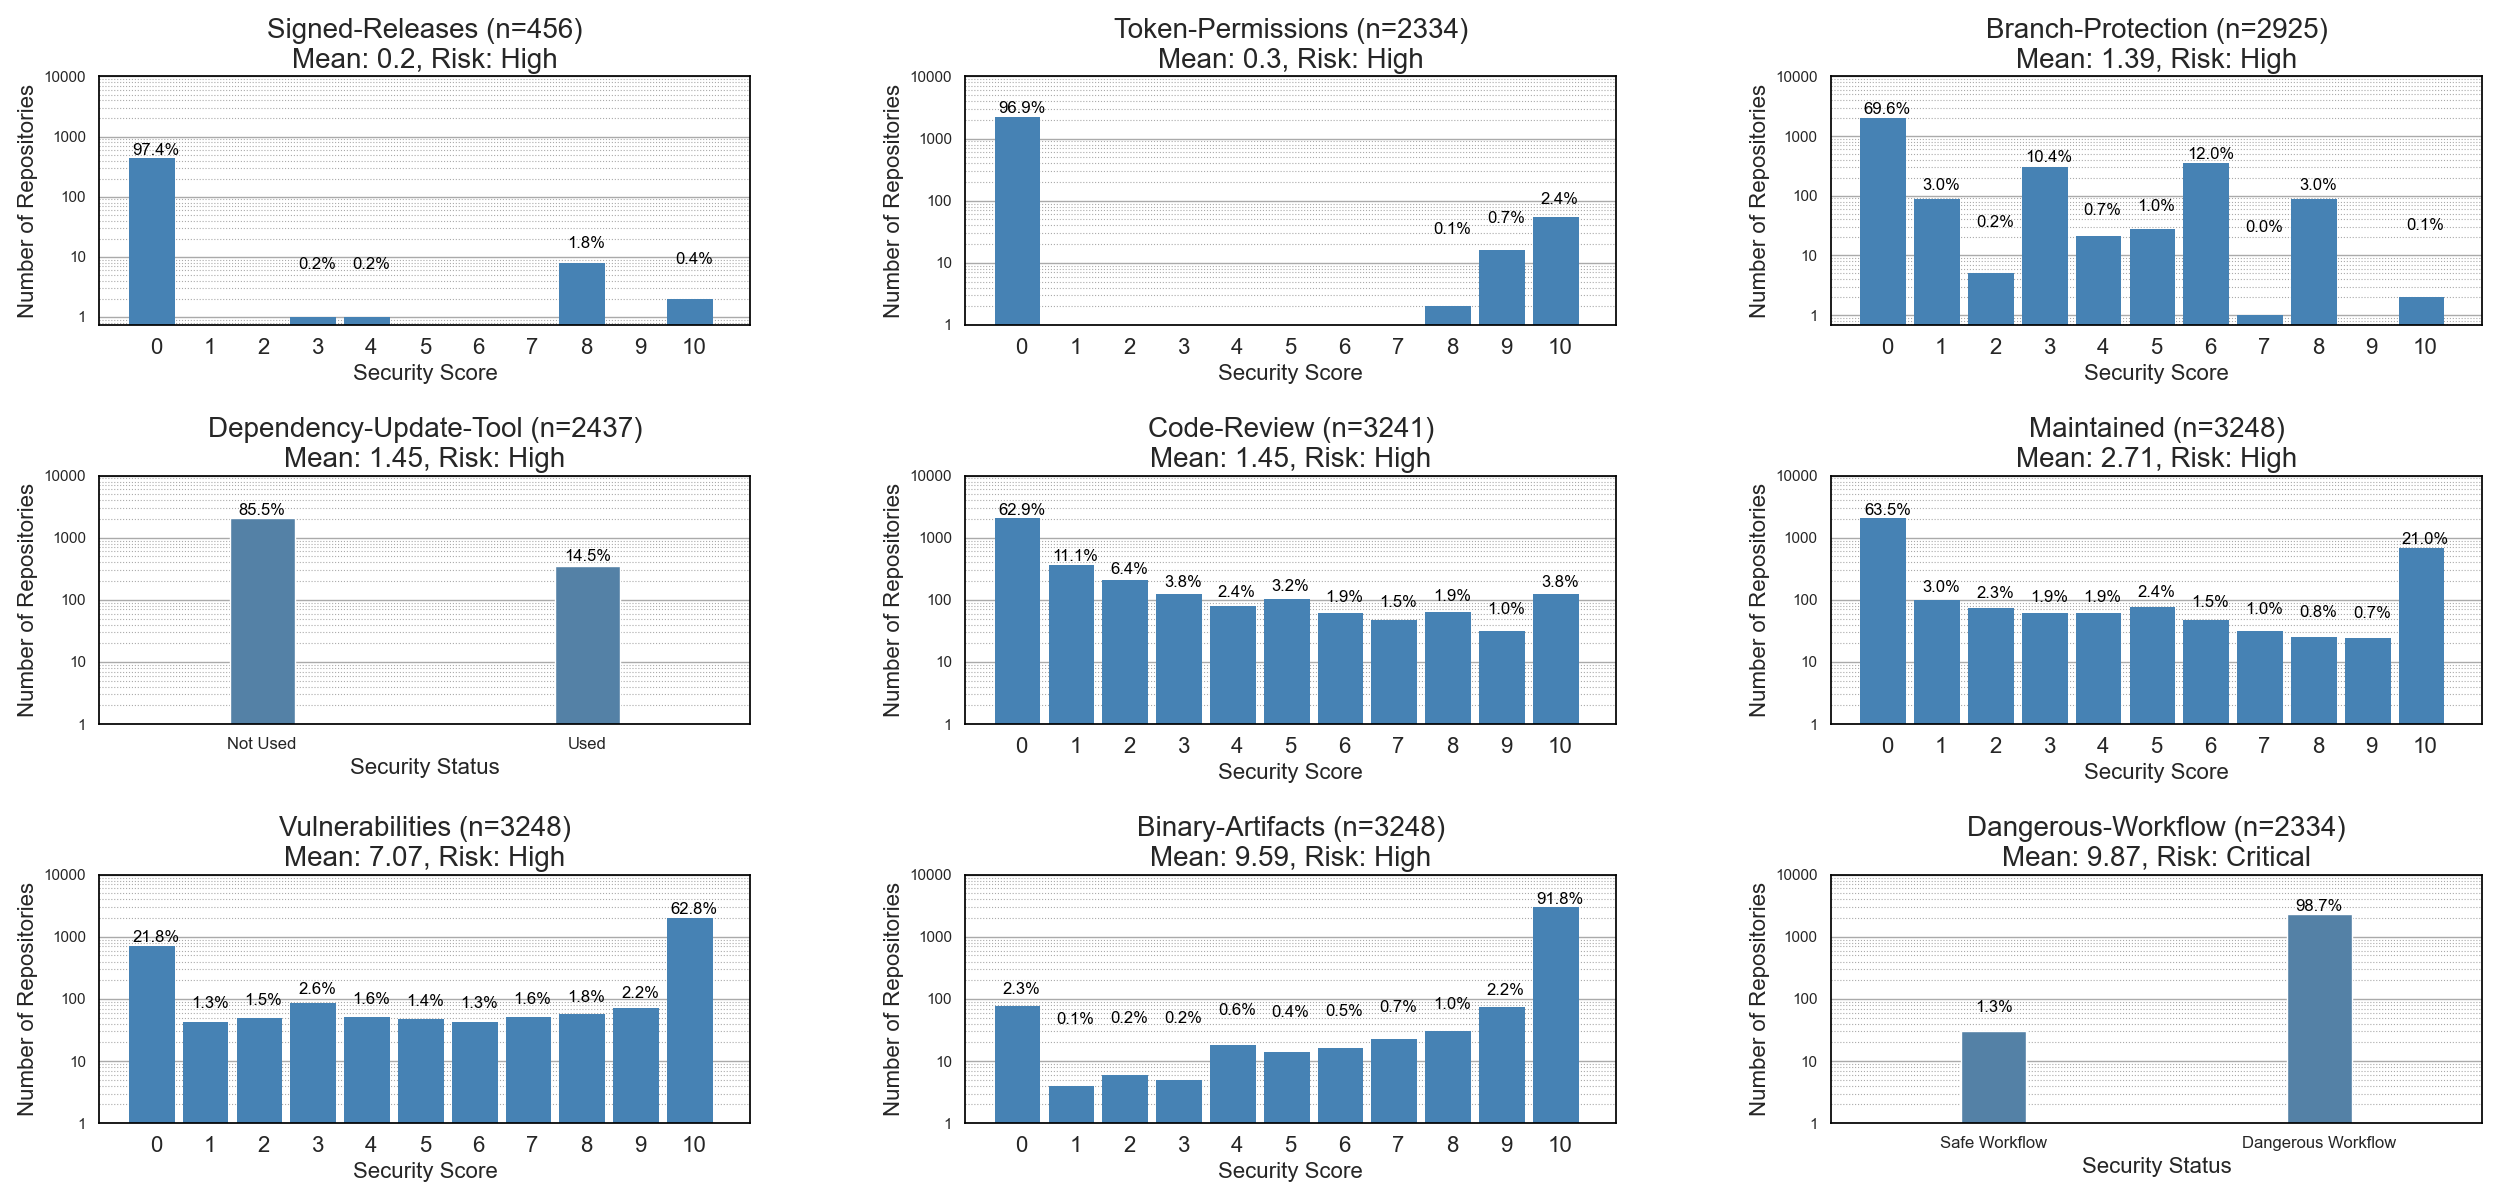
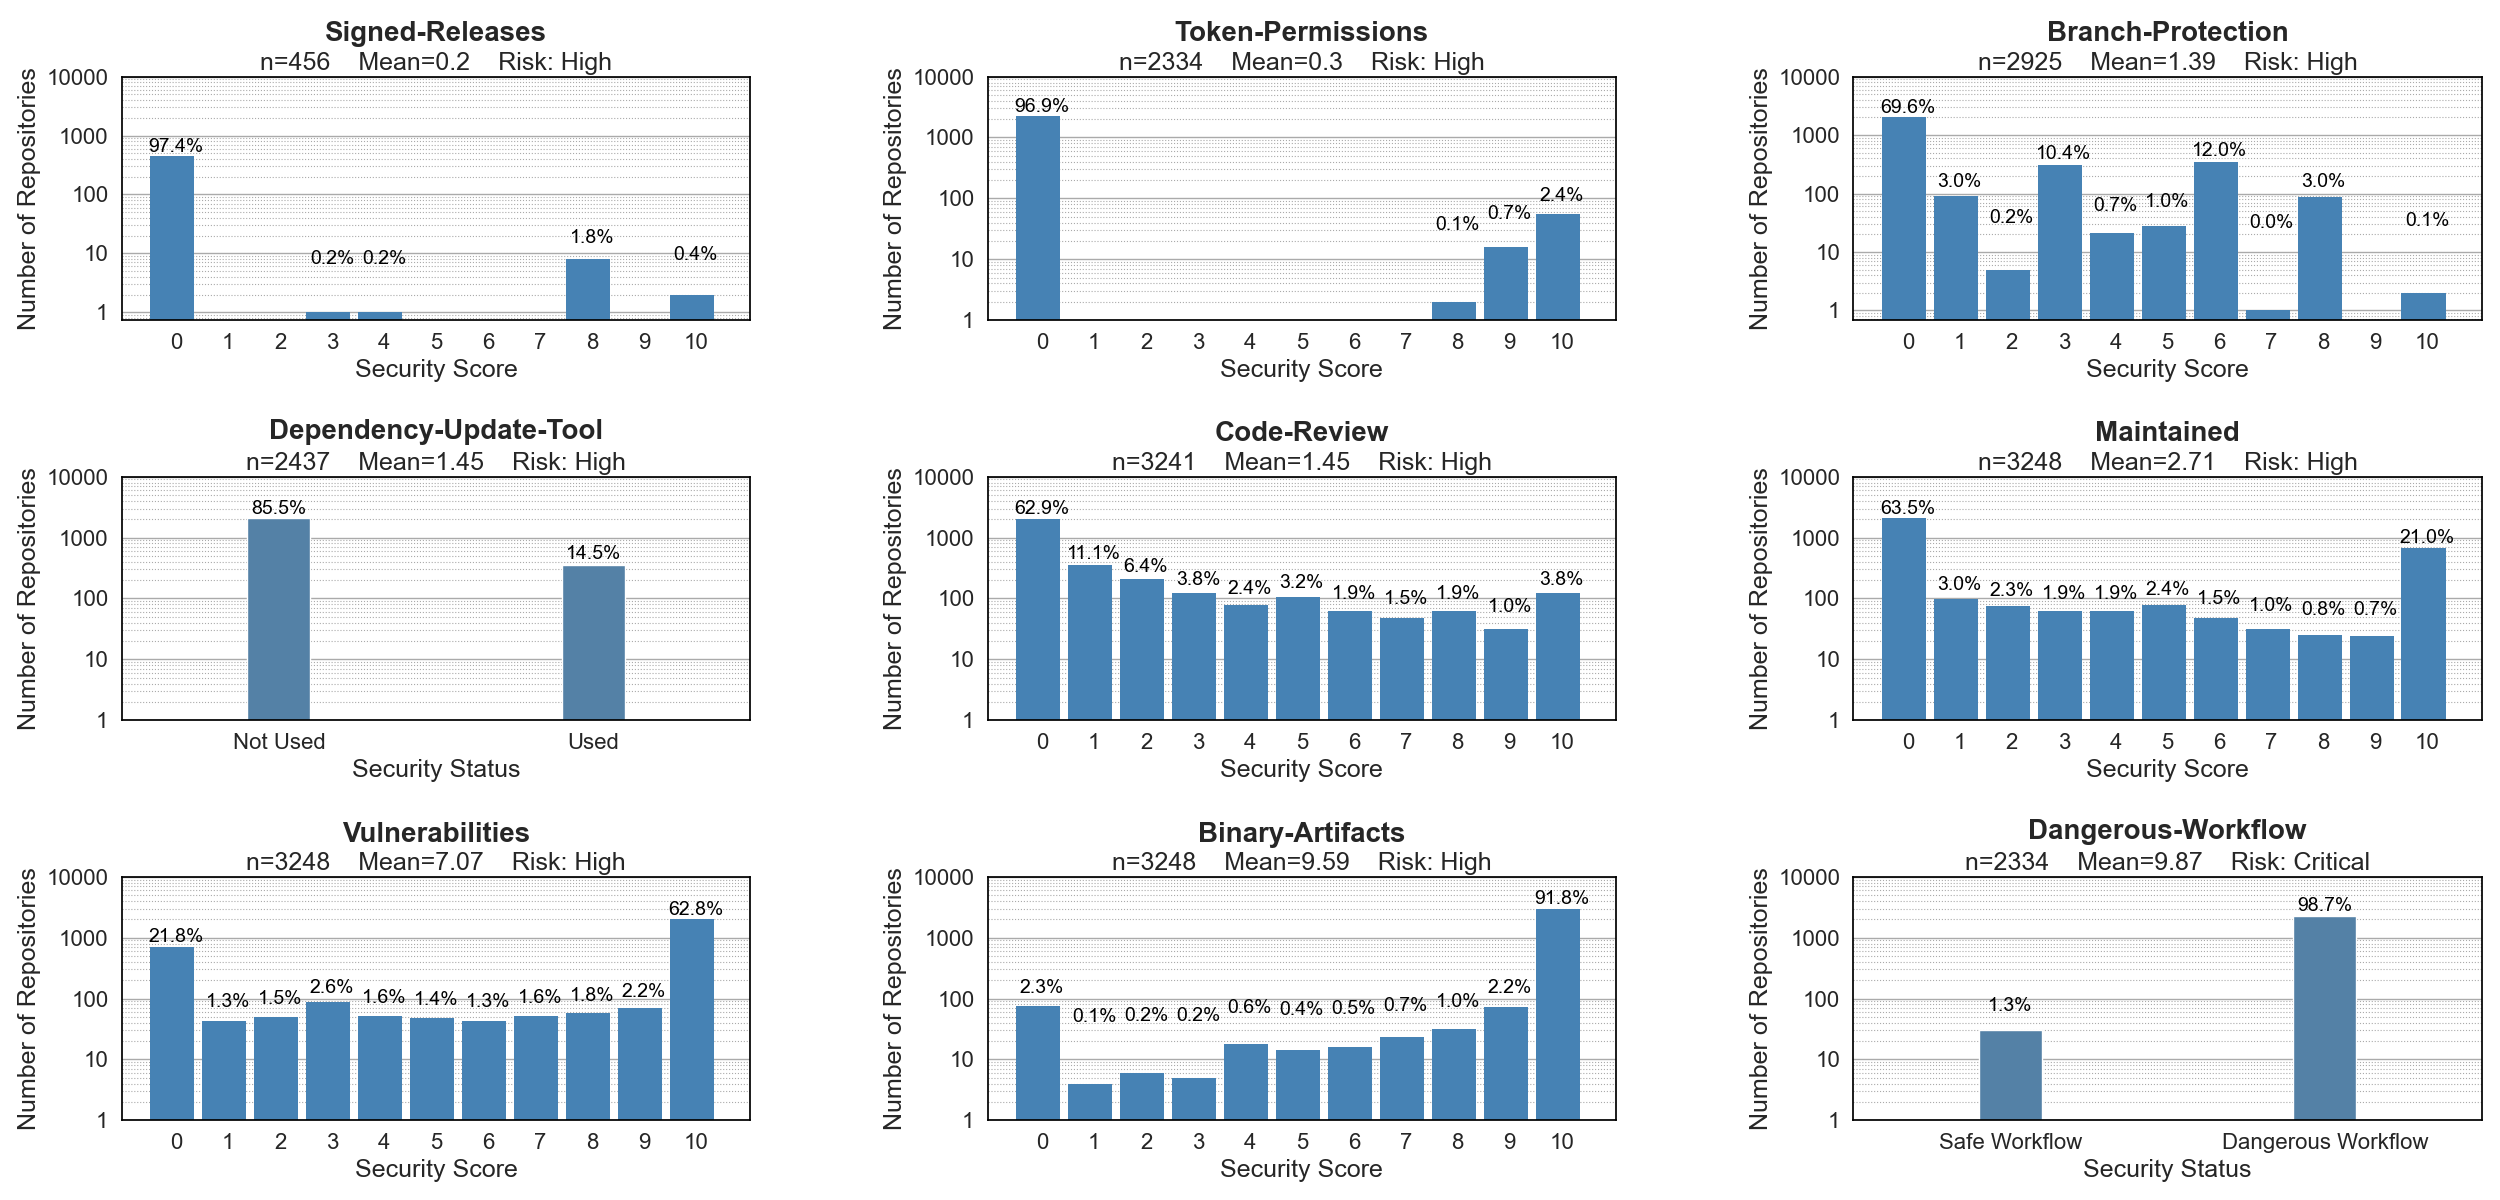
style: adjust plot font sizes and restyle title

diff --git a/src/plot_ossf_scores.py b/src/plot_ossf_scores.py
@@ -174,17 +174,20 @@ def _plot_histogram_for_check(ax, row, check_scores):
     for count, x in zip(counts, bin_centers):
         percent = count / total * 100
         if count > 0:
-            ax.text(x, count + offset, f'{percent:.1f}%', ha='center', va='bottom', fontsize=12, color='black')
+            ax.text(x, count + offset, f'{percent:.1f}%', ha='center', va='bottom', fontsize=14, color='black')
 
     ax.grid(axis='x')
     ax.set_xticks(bin_centers)
     ax.set_xticklabels([str(i) for i in range(11)], fontsize=16)
-    ax.set_xlabel('Security Score', fontsize=16)
-    ax.set_ylabel('Number of Repositories', fontsize=16)
+    ax.set_xlabel('Security Score', fontsize=18)
+    ax.set_ylabel('Number of Repositories', fontsize=18)
     ax.set_yscale('log', nonpositive='clip')
     ax.set_yticks([1,10, 100, 1000, 10000])
-    ax.set_yticklabels([1, 10, 100, 1000, 10000])
-    ax.set_title(f"{check_name} (n={len(scores)})\nMean: {row['Mean']}, Risk: {row['Risk Level']}", fontsize=20)
+    ax.set_yticklabels([1, 10, 100, 1000, 10000], fontsize= 16)
+    ax.text(0.5, 1.12, f"{check_name}", transform=ax.transAxes,
+            fontsize=20, ha='center', va='bottom', fontweight='bold')
+    ax.text(0.5, 1.10, f"n={len(scores)}    Mean={row['Mean']}    Risk: {row['Risk Level']}",
+            transform=ax.transAxes, fontsize=18, ha='center', va='top')
 
     for spine in ax.spines.values():
         spine.set_edgecolor('black')
@@ -210,10 +213,13 @@ def _plot_binaer_histogram_for_check(ax, row, check_scores):
     })
 
     sns.barplot(x="Status", y="Count", data=df, ax=ax, color='steelblue',width=0.2)
-    ax.set_xticklabels(BINARY_LABELS[check_name], fontsize=12)
-    ax.set_xlabel('Security Status', fontsize=16)
-    ax.set_ylabel('Number of Repositories', fontsize=16)
-    ax.set_title(f"{check_name} (n={len(scores)})\nMean: {row['Mean']}, Risk: {row['Risk Level']}", fontsize=20)
+    ax.set_xticklabels(BINARY_LABELS[check_name], fontsize=16)
+    ax.set_xlabel('Security Status', fontsize=18)
+    ax.set_ylabel('Number of Repositories', fontsize=18)
+    ax.text(0.5, 1.13, f"{check_name}", transform=ax.transAxes,
+            fontsize=20, ha='center', va='bottom', fontweight='bold')
+    ax.text(0.5, 1.10, f"n={len(scores)}    Mean={row['Mean']}    Risk: {row['Risk Level']}",
+            transform=ax.transAxes, fontsize=18, ha='center', va='top')
 
     total = count_0 + count_1
     ymin, ymax = ax.get_ylim()
@@ -222,14 +228,14 @@ def _plot_binaer_histogram_for_check(ax, row, check_scores):
     for i, count in enumerate([count_0, count_1]):
         percent = count / total * 100
         if count > 0:
-            ax.text(i, count + offset , f'{percent:.1f}%', ha='center', va='bottom', fontsize=12, color='black')
+            ax.text(i, count + offset , f'{percent:.1f}%', ha='center', va='bottom', fontsize=14, color='black')
 
     ax.set_yscale('log', nonpositive='clip')
     ax.grid(axis='y')
     for spine in ax.spines.values():
         spine.set_edgecolor('black')
     ax.set_yticks([1, 10, 100, 1000, 10000])
-    ax.set_yticklabels([1, 10, 100, 1000, 10000])
+    ax.set_yticklabels([1, 10, 100, 1000, 10000], fontsize= 16)
     ax.yaxis.set_minor_locator(ticker.LogLocator(base=10.0, subs=np.arange(1.0, 10.0), numticks=100))
     ax.yaxis.set_minor_formatter(ticker.NullFormatter())  
     ax.yaxis.grid(True, which='major', linestyle='-', linewidth=1, color='#AAAAAA')
@@ -257,6 +263,7 @@ def save_all_checks_multiplot(check_scores, stats_df, output_dir):
             _plot_binaer_histogram_for_check(ax, row, check_scores)   
         else:
             _plot_histogram_for_check(ax, row, check_scores)
+        
 
     for j in range(len(check_scores), len(axes)):
         fig.delaxes(axes[j])
@@ -284,6 +291,7 @@ def plot_high_risk_checks(check_scores, stats_df, output_dir):
             _plot_binaer_histogram_for_check(ax, row, check_scores)   
         else:
             _plot_histogram_for_check(ax, row, check_scores)
+        
     
     for j in range(len(high_risk_df), 3):
         axes[j].set_visible(False)
